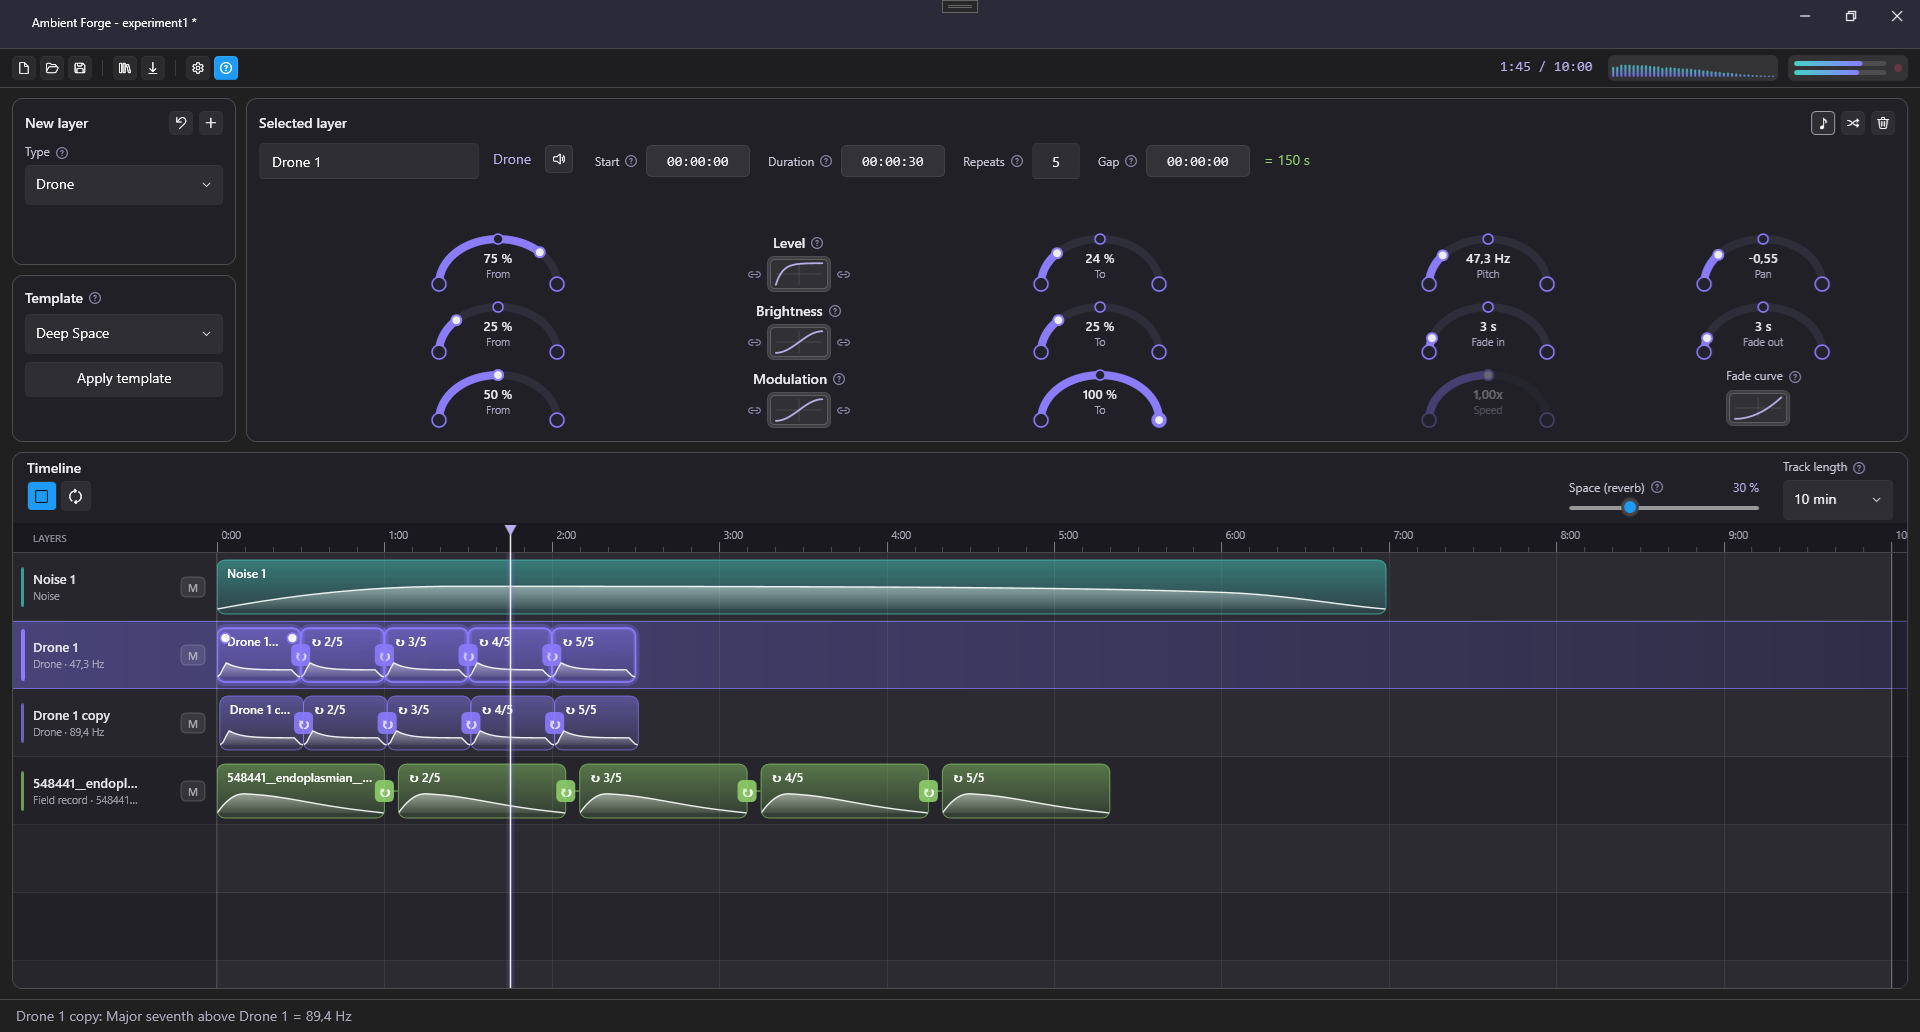
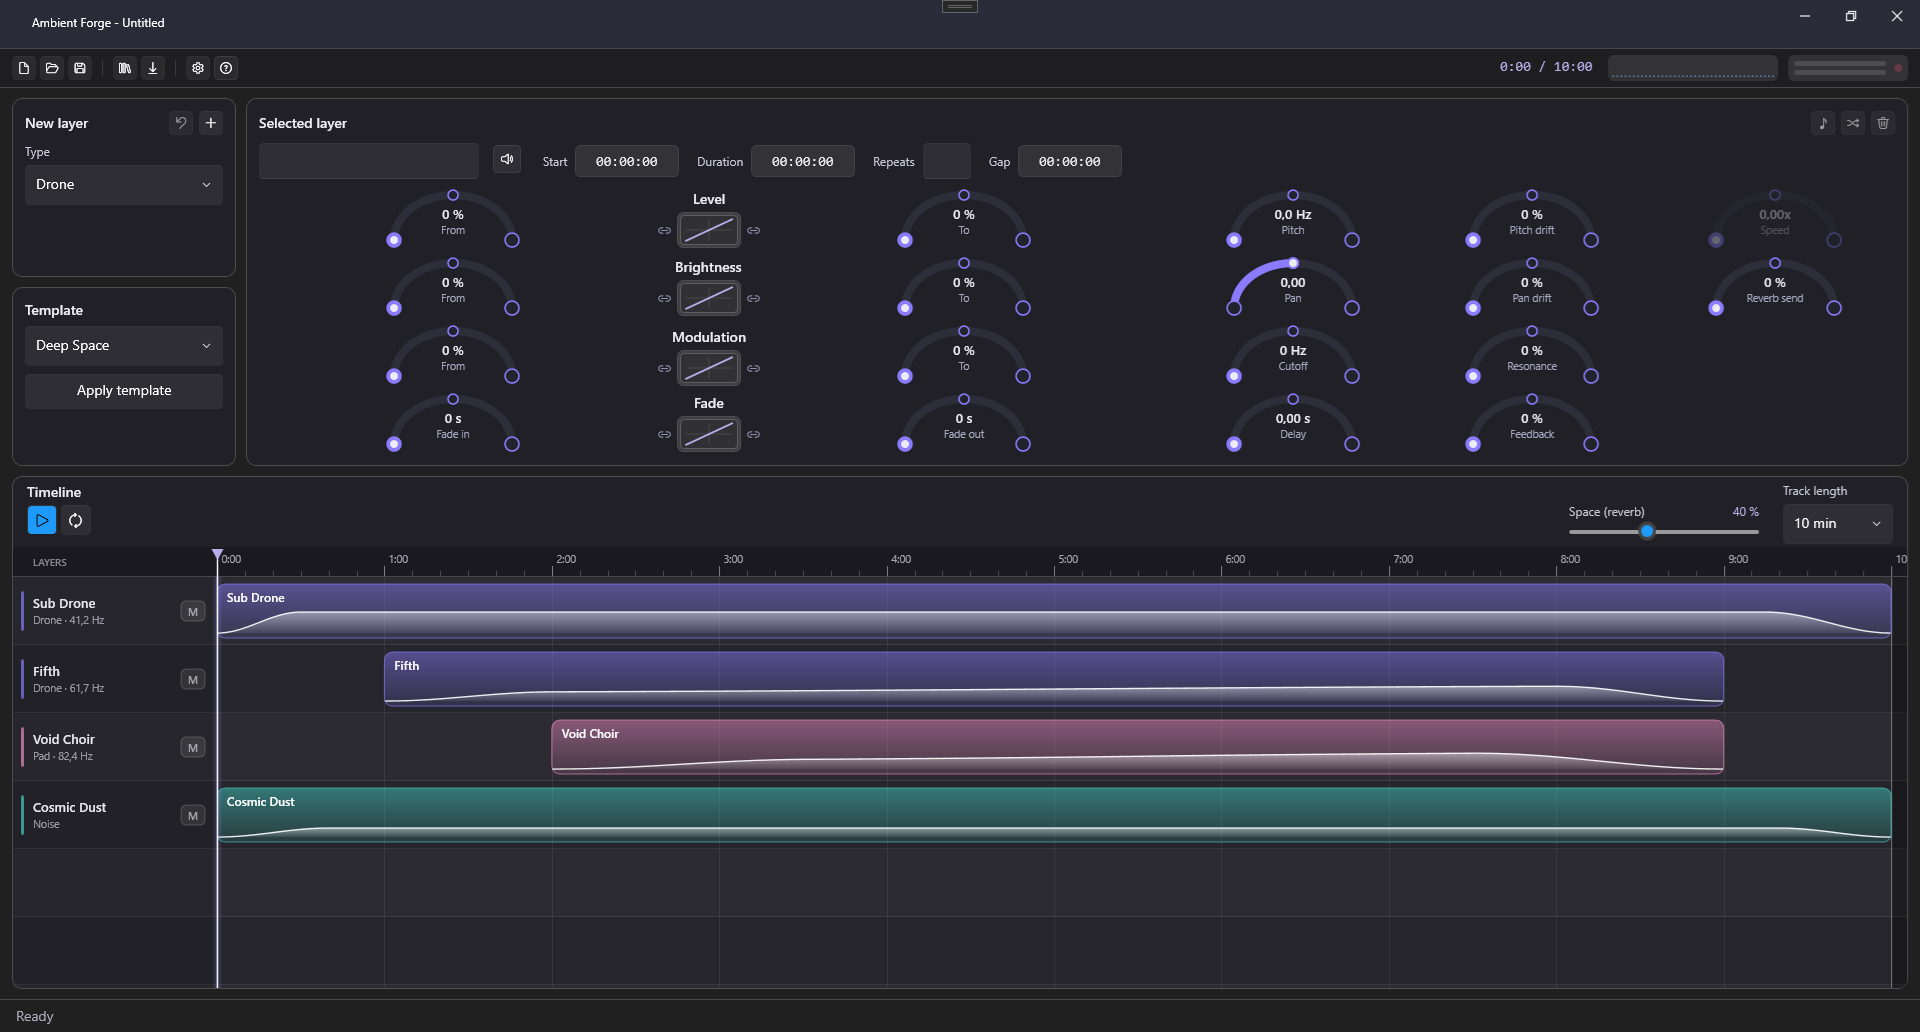
readme, screenshot updated

diff --git a/README.md b/README.md
@@ -1,11 +1,22 @@
 # Ambient Forge
 
-A Windows desktop generator for **dark / space ambient** music. You build a track from layers on a timeline,
+Desktop generator for **dark / space ambient** music. You build a track from layers on a timeline,
 shape how each layer changes over time, listen to it live and export it to WAV or MP3.
 
-Inspired by the sound of Mount Shrine, Alphaxone, Council of Nine, Sphare Sech and The Void Wanderer.
-
-![Main window](docs/screenshots/main-window.png)
+<table>
+  <tr>
+    <th width="50%">MainWindow</th>
+    <th width="50%">SettingsWindow</th>
+  </tr>
+  <tr>
+    <td align="center">
+      <img src="docs/screenshots/main-window.png" alt="Main window" style="max-height: 600px; width: auto; max-width: 100%; object-fit: contain;">
+    </td>
+    <td align="center">
+      <img src="docs/screenshots/preset-window.png" alt="Preset library" style="max-height: 600px; width: auto; max-width: 100%; object-fit: contain;">
+    </td>
+  </tr>
+</table>
 
 ## What it does
 
@@ -19,11 +30,8 @@ Inspired by the sound of Mount Shrine, Alphaxone, Council of Nine, Sphare Sech a
 - **Master section** - reverb, soft limiter, spectrum and level meters, clip indicator.
 - **Preset library** - a catalogue of your recordings with waveform preview, play/loop, tags and tag filter.
 - **Templates and projects** - ready-made compositions, projects saved as readable `.afproj` (JSON).
-- **Export** - WAV (16/32-bit) or MP3 with optional fade in/out; the same engine renders live and offline,
-  so a seed always gives the same sound.
+- **Export** - WAV (16/32-bit) or MP3
 - **Controls** - sliders (default) or gauge knobs, optional "?" hints (see *Settings*).
-
-![Preset library](docs/screenshots/preset-window.png)
 
 ## Run
 
